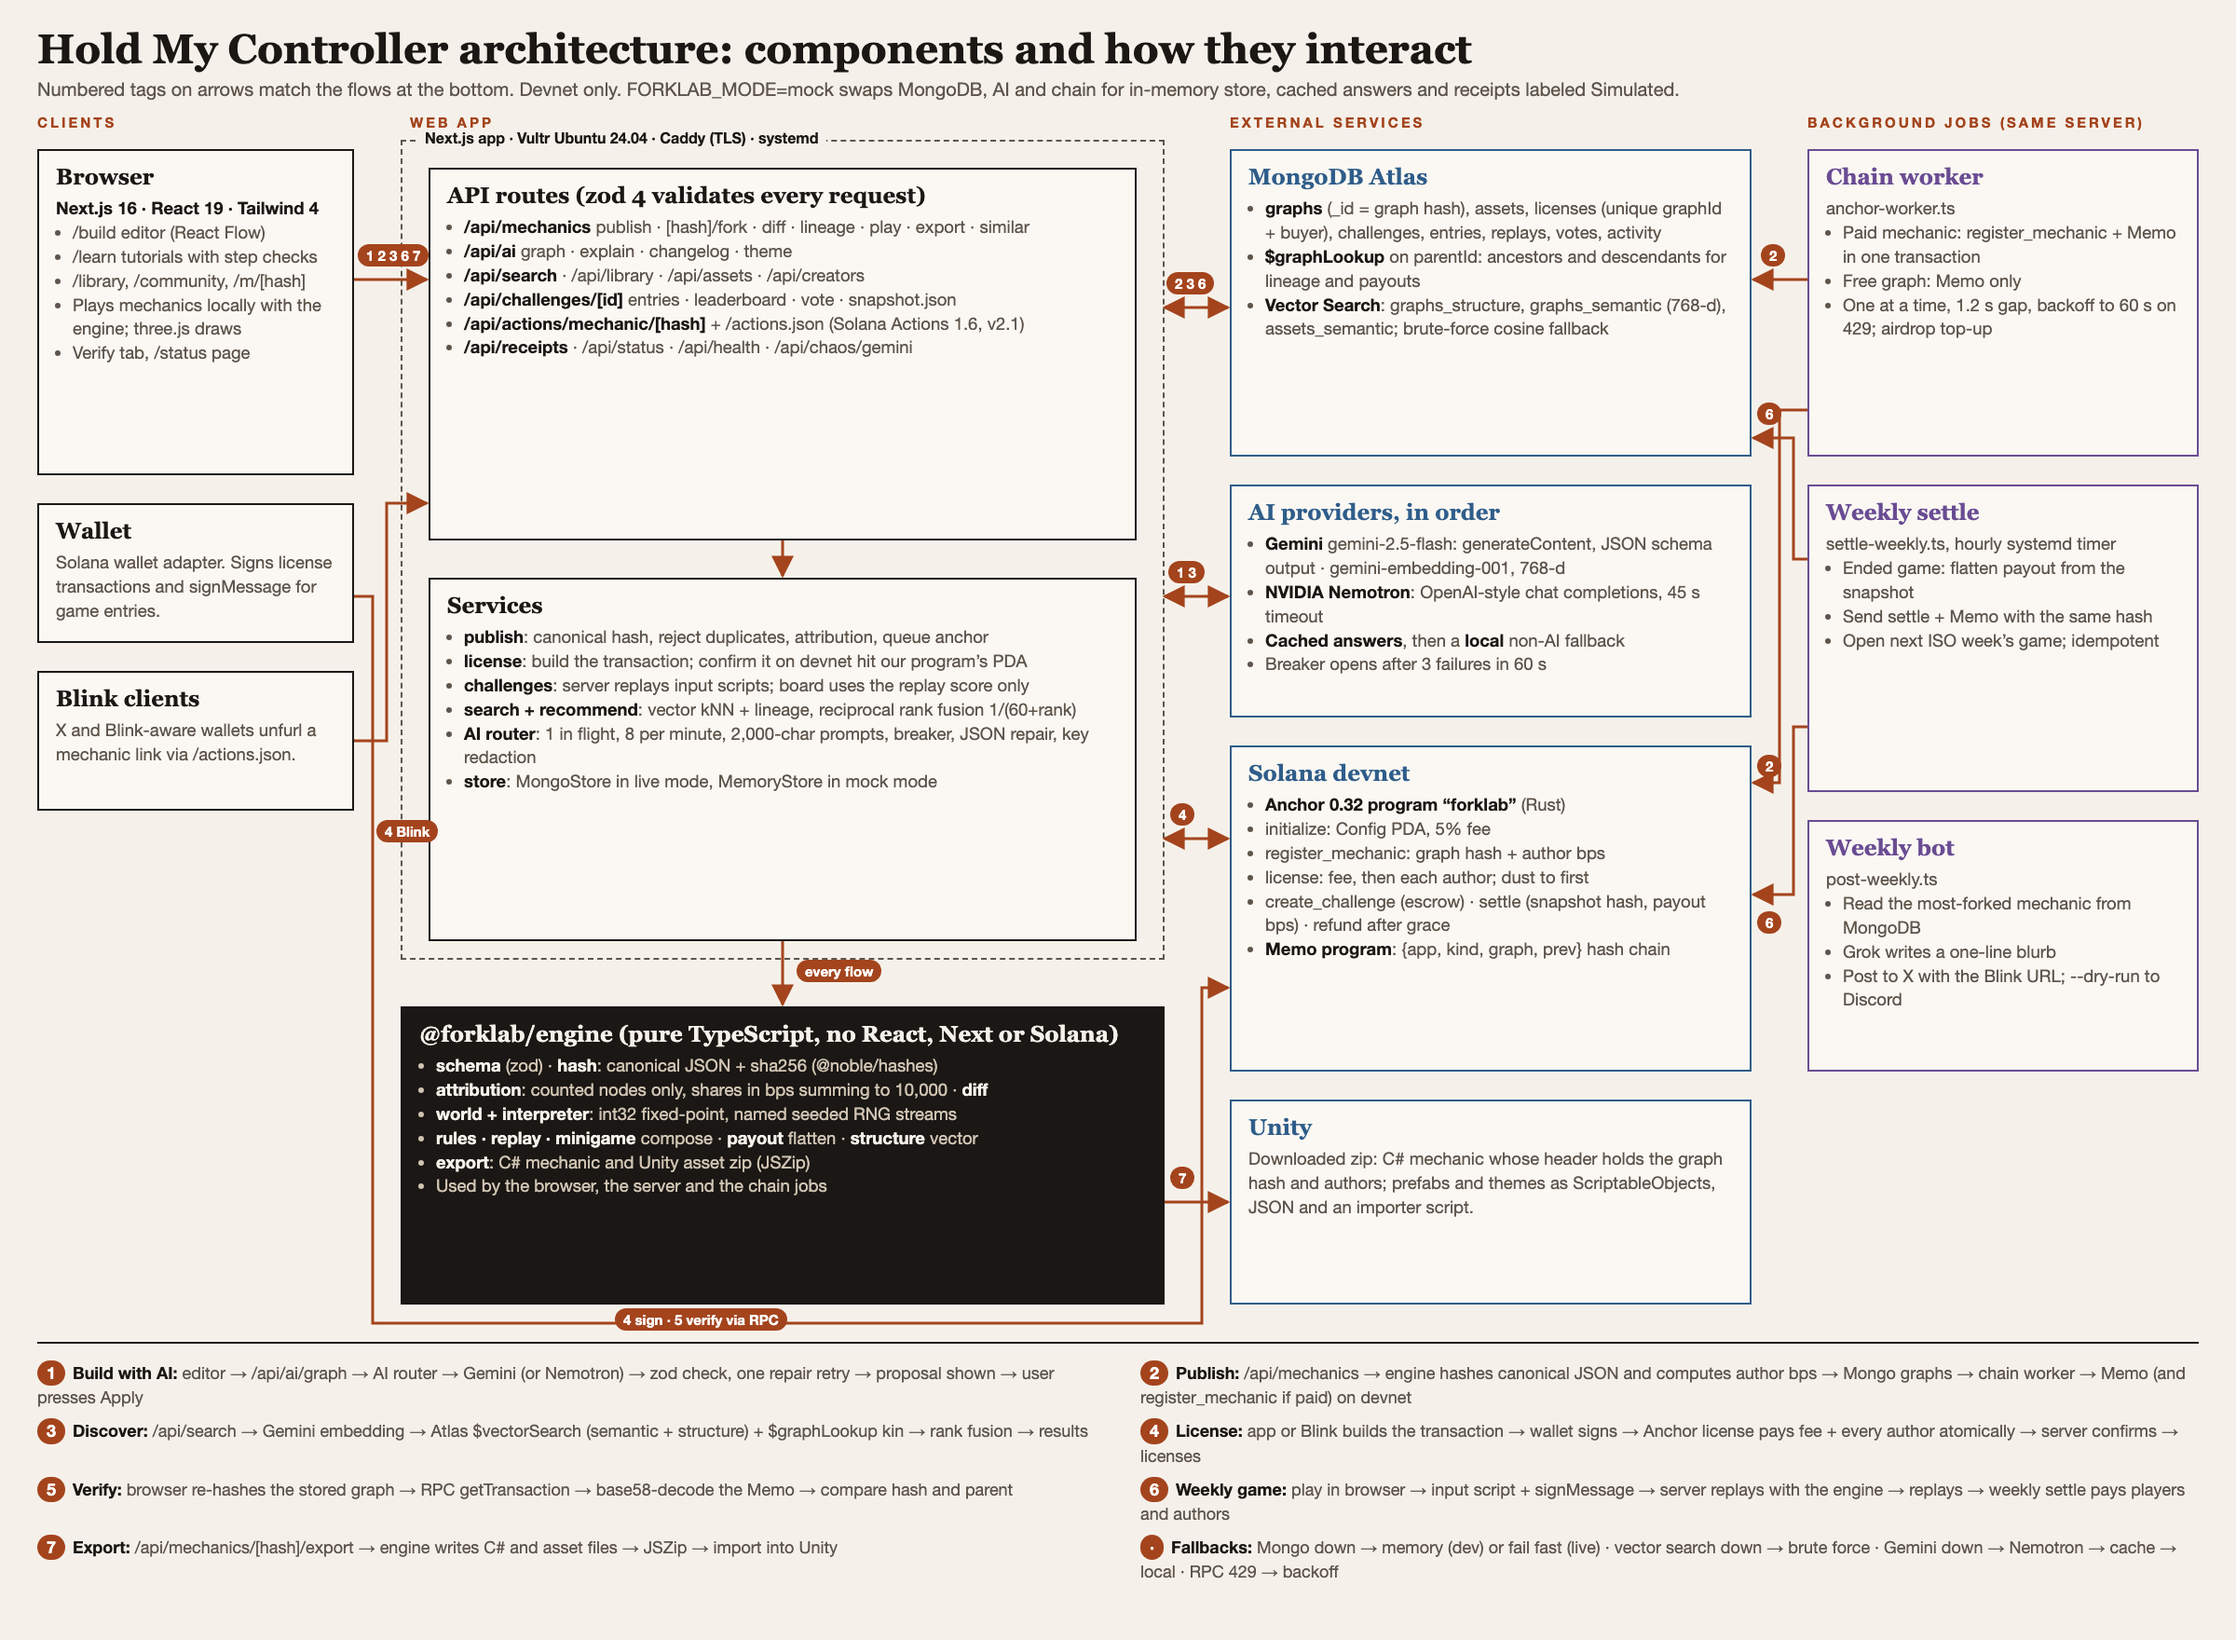
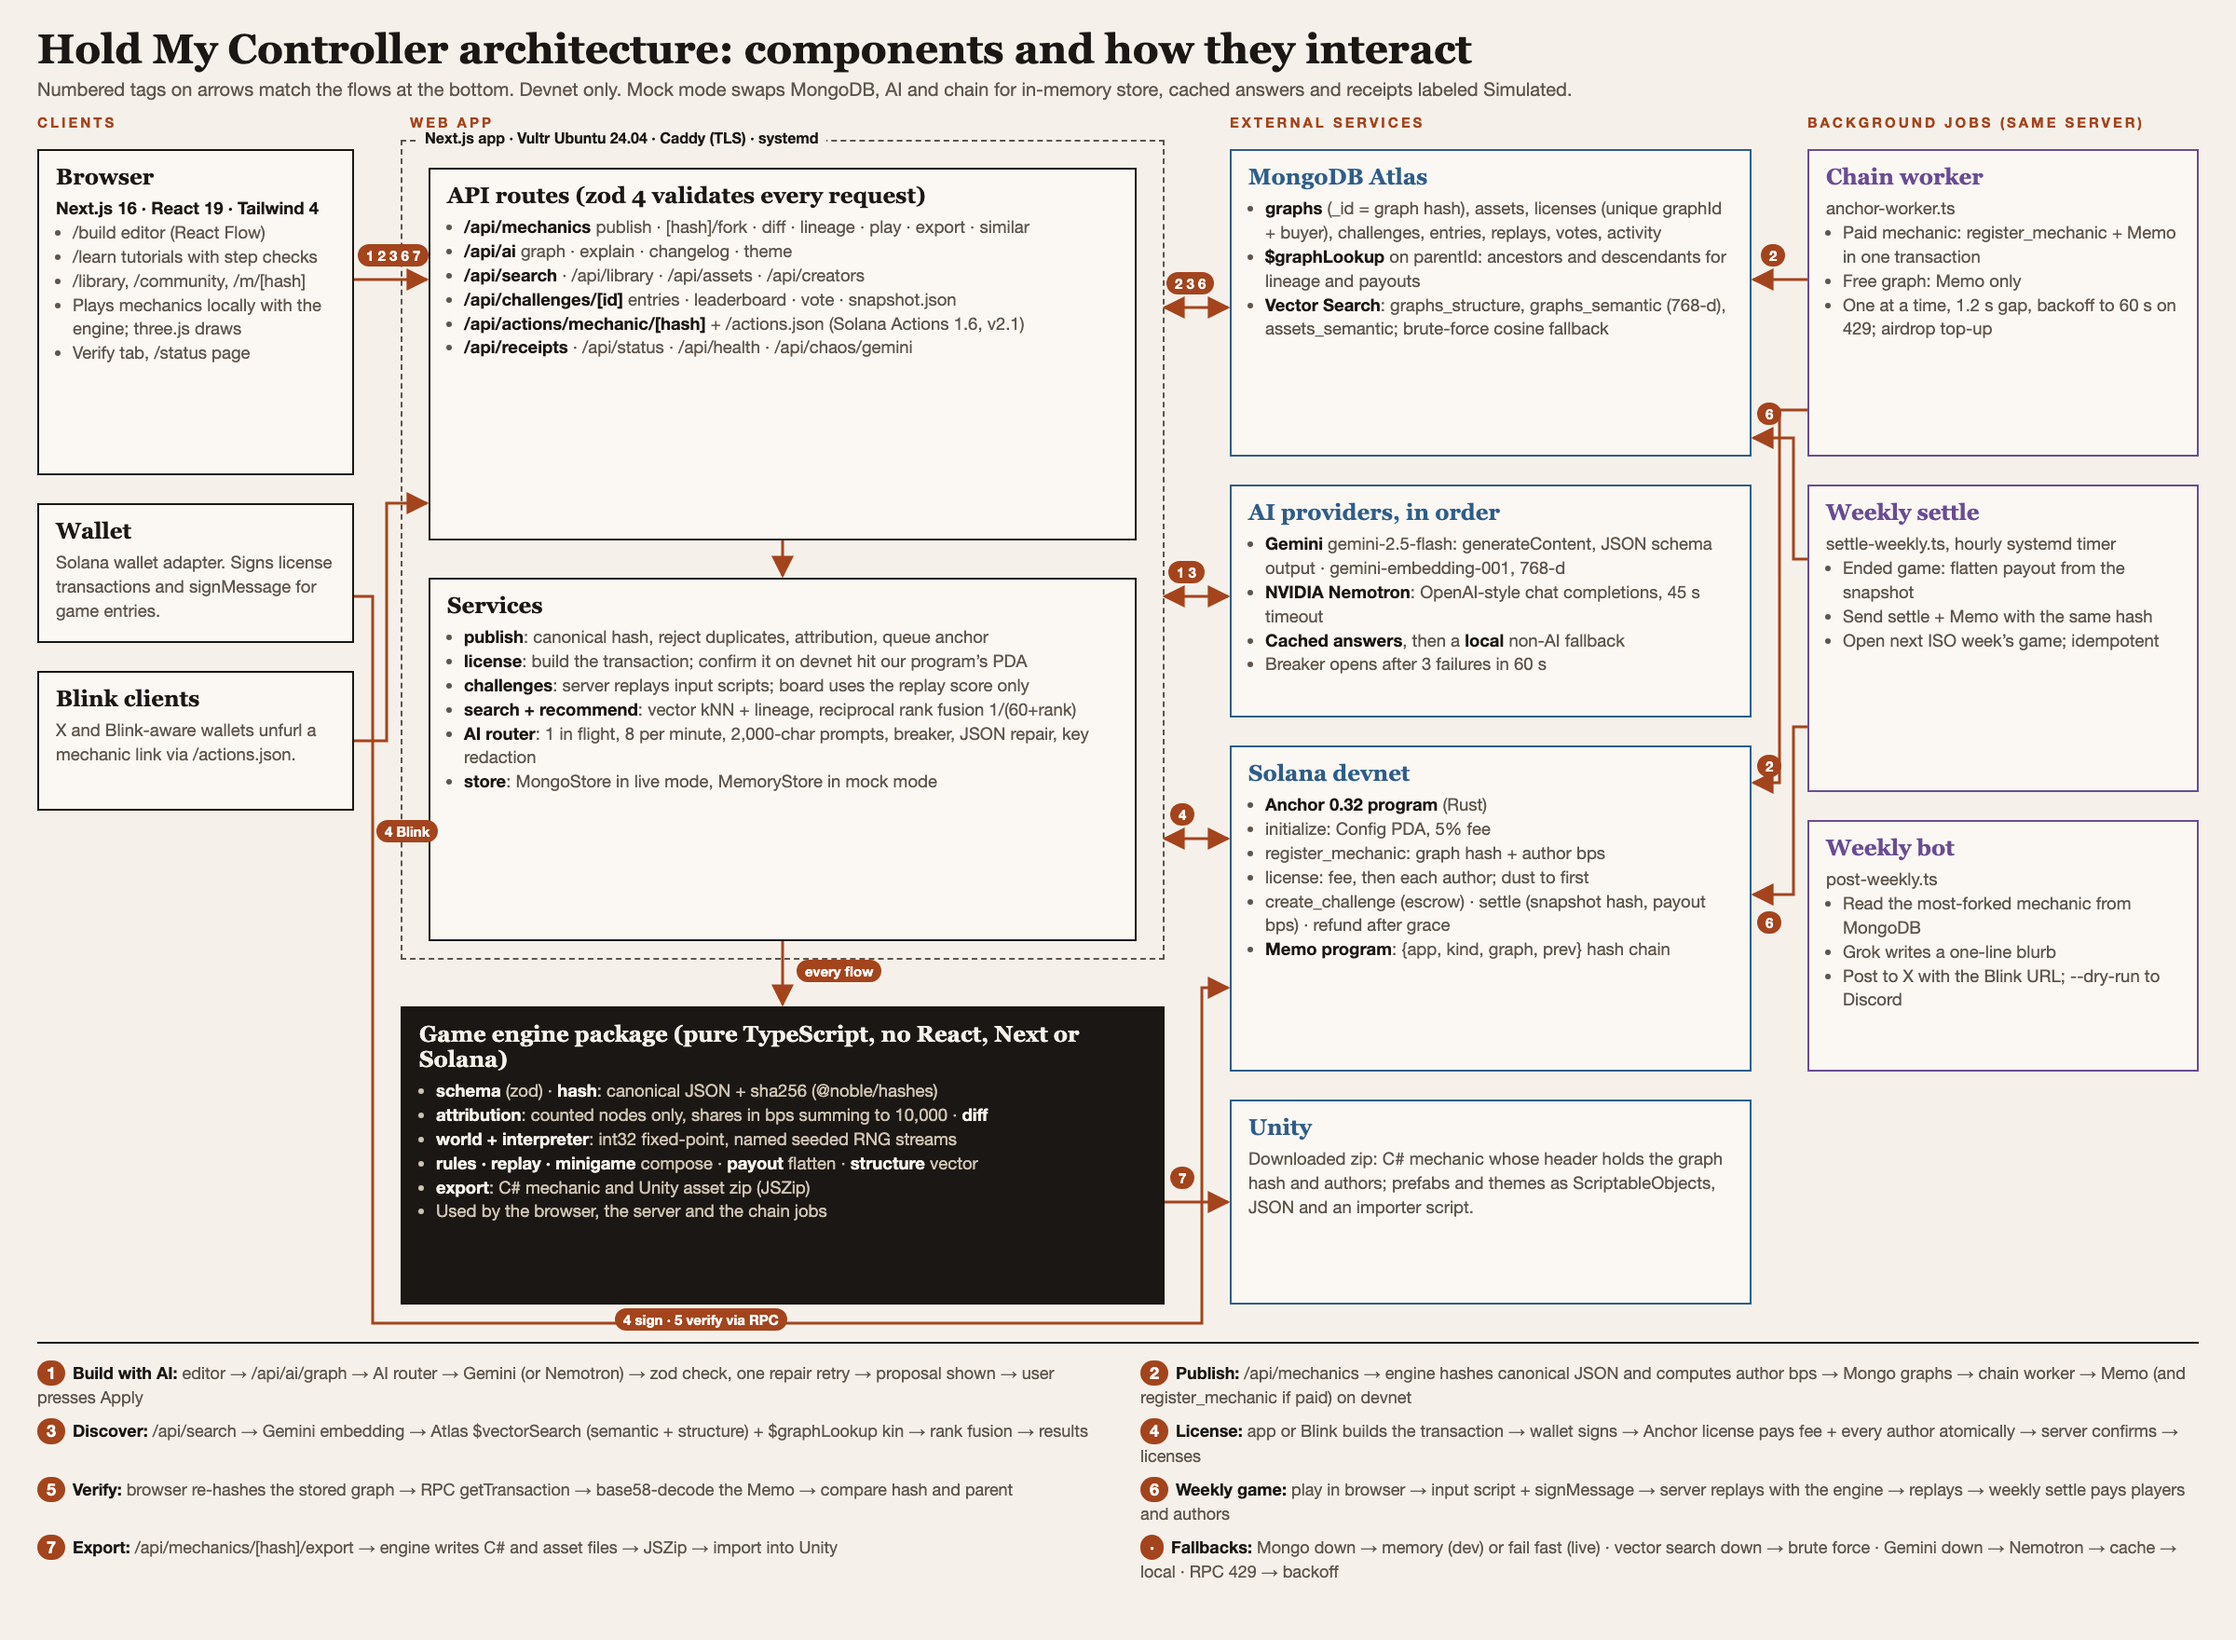
Use Hold My Controller in docs and diagrams

Changed region(s): [[0.1875, 0.625, 0.5, 0.75], [0.2812, 0.0312, 0.75, 0.0625], [0.6562, 0.4688, 0.6875, 0.5]]

diff --git a/docs/architecture.html b/docs/architecture.html
@@ -27,7 +27,7 @@
 </style></head>
 <body>
 <h1>Hold My Controller architecture: components and how they interact</h1>
-<p class="sub">Numbered tags on arrows match the flows at the bottom. Devnet only. FORKLAB_MODE=mock swaps MongoDB, AI and chain for in-memory store, cached answers and receipts labeled Simulated.</p>
+<p class="sub">Numbered tags on arrows match the flows at the bottom. Devnet only. Mock mode swaps MongoDB, AI and chain for in-memory store, cached answers and receipts labeled Simulated.</p>
 
 <p class="col" style="left:40px;">Clients</p>
 <p class="col" style="left:440px;">Web app</p>
@@ -82,7 +82,7 @@
 
 <!-- Engine -->
 <div class="box core" style="left:430px;top:1080px;width:820px;height:320px;">
-  <h3>@forklab/engine (pure TypeScript, no React, Next or Solana)</h3>
+  <h3>Game engine package (pure TypeScript, no React, Next or Solana)</h3>
   <ul>
     <li><b>schema</b> (zod) · <b>hash</b>: canonical JSON + sha256 (@noble/hashes)</li>
     <li><b>attribution</b>: counted nodes only, shares in bps summing to 10,000 · <b>diff</b></li>
@@ -114,7 +114,7 @@
 <div class="box ext" style="left:1320px;top:800px;width:560px;height:350px;">
   <h3>Solana devnet</h3>
   <ul>
-    <li><b>Anchor 0.32 program “forklab”</b> (Rust)</li>
+    <li><b>Anchor 0.32 program</b> (Rust)</li>
     <li>initialize: Config PDA, 5% fee</li>
     <li>register_mechanic: graph hash + author bps</li>
     <li>license: fee, then each author; dust to first</li>

diff --git a/PLAN.md b/PLAN.md
@@ -1,6 +1,6 @@
-# ForkLab: build plan (paste into Cursor)
+# Hold My Controller: build plan (paste into Cursor)
 
-> **For the coding agent:** work task by task in order. Each task lists Files, Produces, and named tests. Write the tests first, watch them fail, implement, watch them pass, commit. Do not start a P1 task until every P0 task is green. Placeholder name "ForkLab"; pick the real name and domain on day one.
+> **For the coding agent:** work task by task in order. Each task lists Files, Produces, and named tests. Write the tests first, watch them fail, implement, watch them pass, commit. Do not start a P1 task until every P0 task is green.
 
 **Judged on (general track):** Robustness (how well the system works), Theme (Homer's Odyssey), Creativity (how innovative). Section 0.5 maps each to concrete features.
 

diff --git a/README.md b/README.md
@@ -1,7 +1,5 @@
 # Hold My Controller
 
-(Internal package, program and environment names still use `forklab`, the working name during development.)
-
 Every game mechanic is a playable, forkable node graph. Play it in the browser, remix it, export C# for Unity, and when someone licenses a mechanic the payment splits on Solana devnet between the people who wrote its nodes. A Community tab runs a weekly minigame on the winning mechanic with replay-verified scores and a prize pool that pays the top players and the mechanic's contributors.
 
 The build plan is in [PLAN.md](PLAN.md). Agent rules and run commands are in [AGENTS.md](AGENTS.md).

diff --git a/AGENTS.md b/AGENTS.md
@@ -1,4 +1,4 @@
-# ForkLab agent rules
+# Hold My Controller agent rules
 
 Follow PLAN.md task order. Tests first. Never commit secrets or keypairs.
 The engine package must not import React, Next, or Solana.
